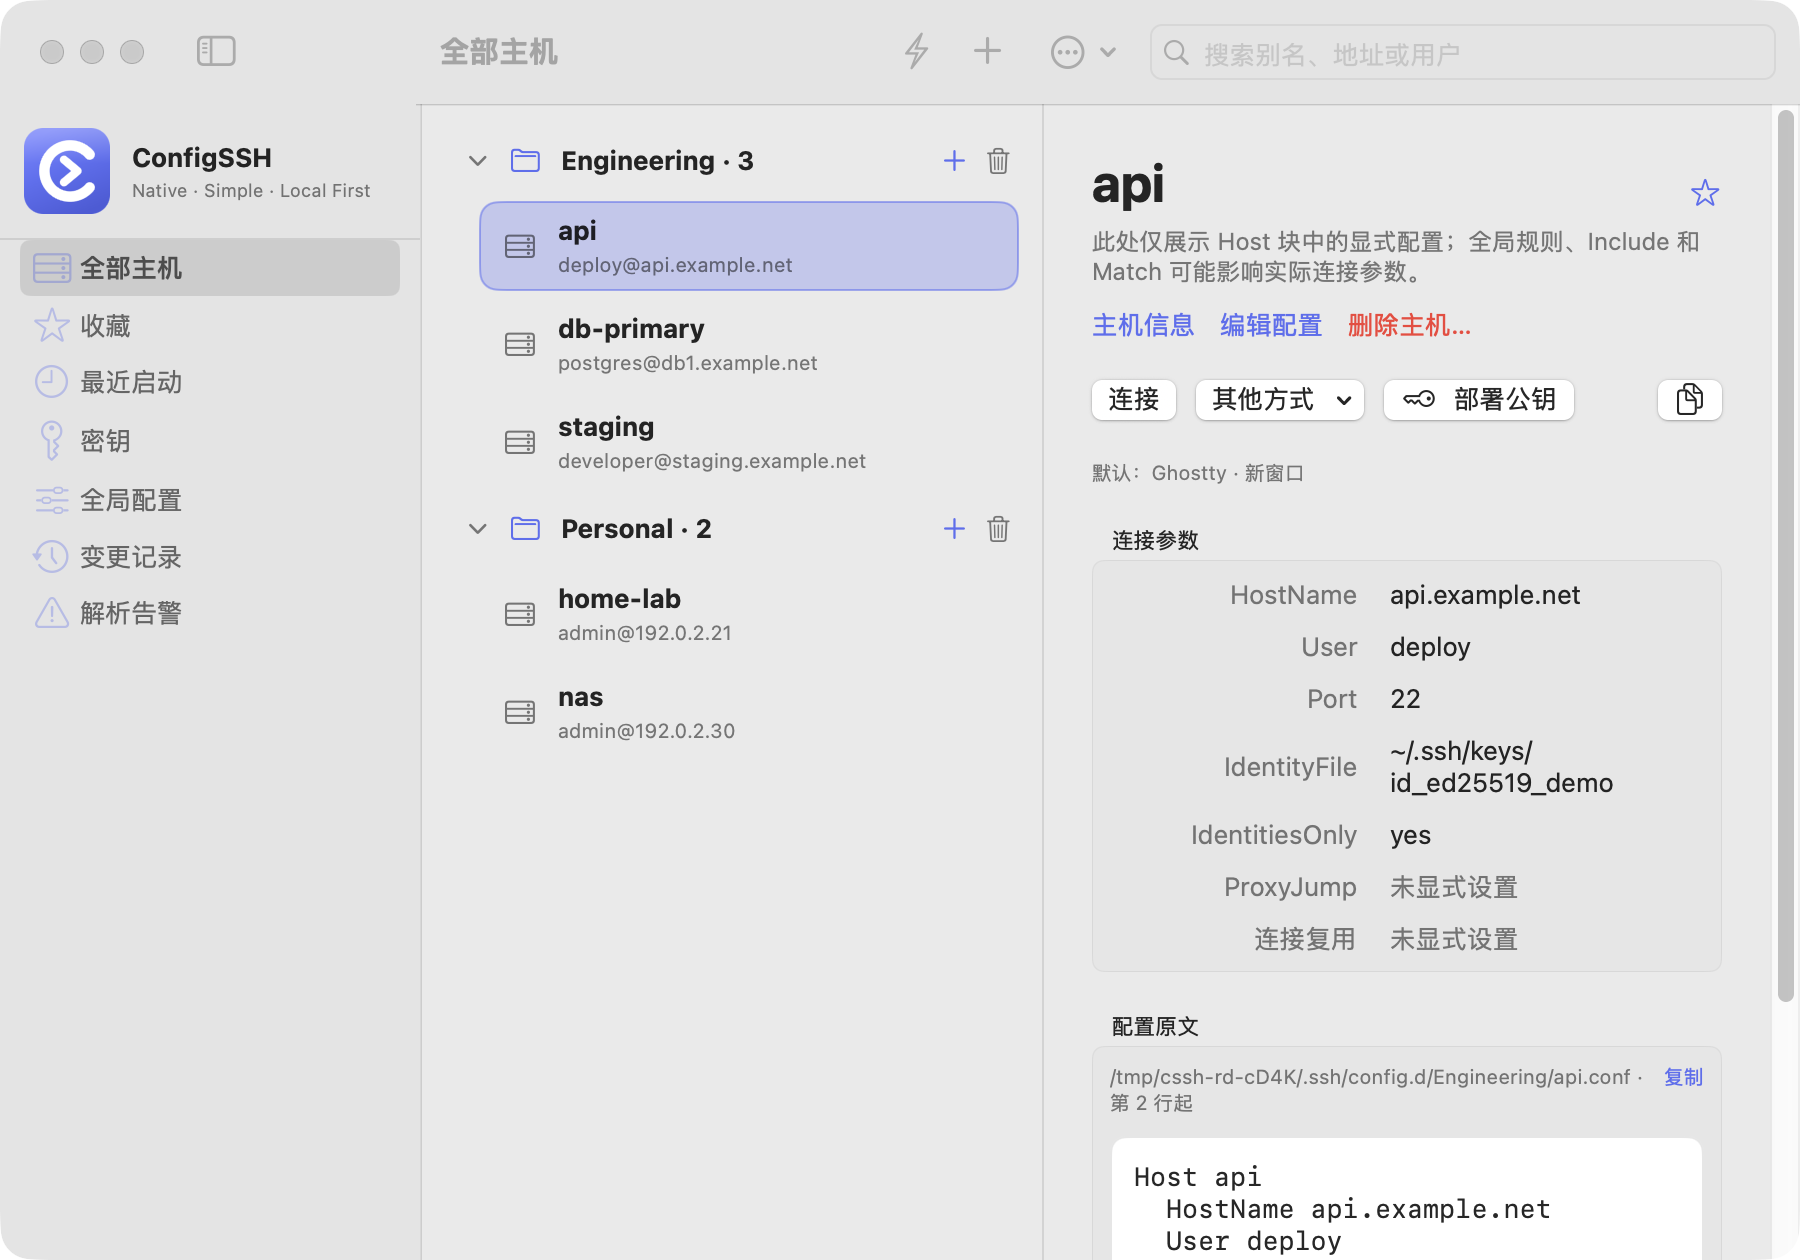
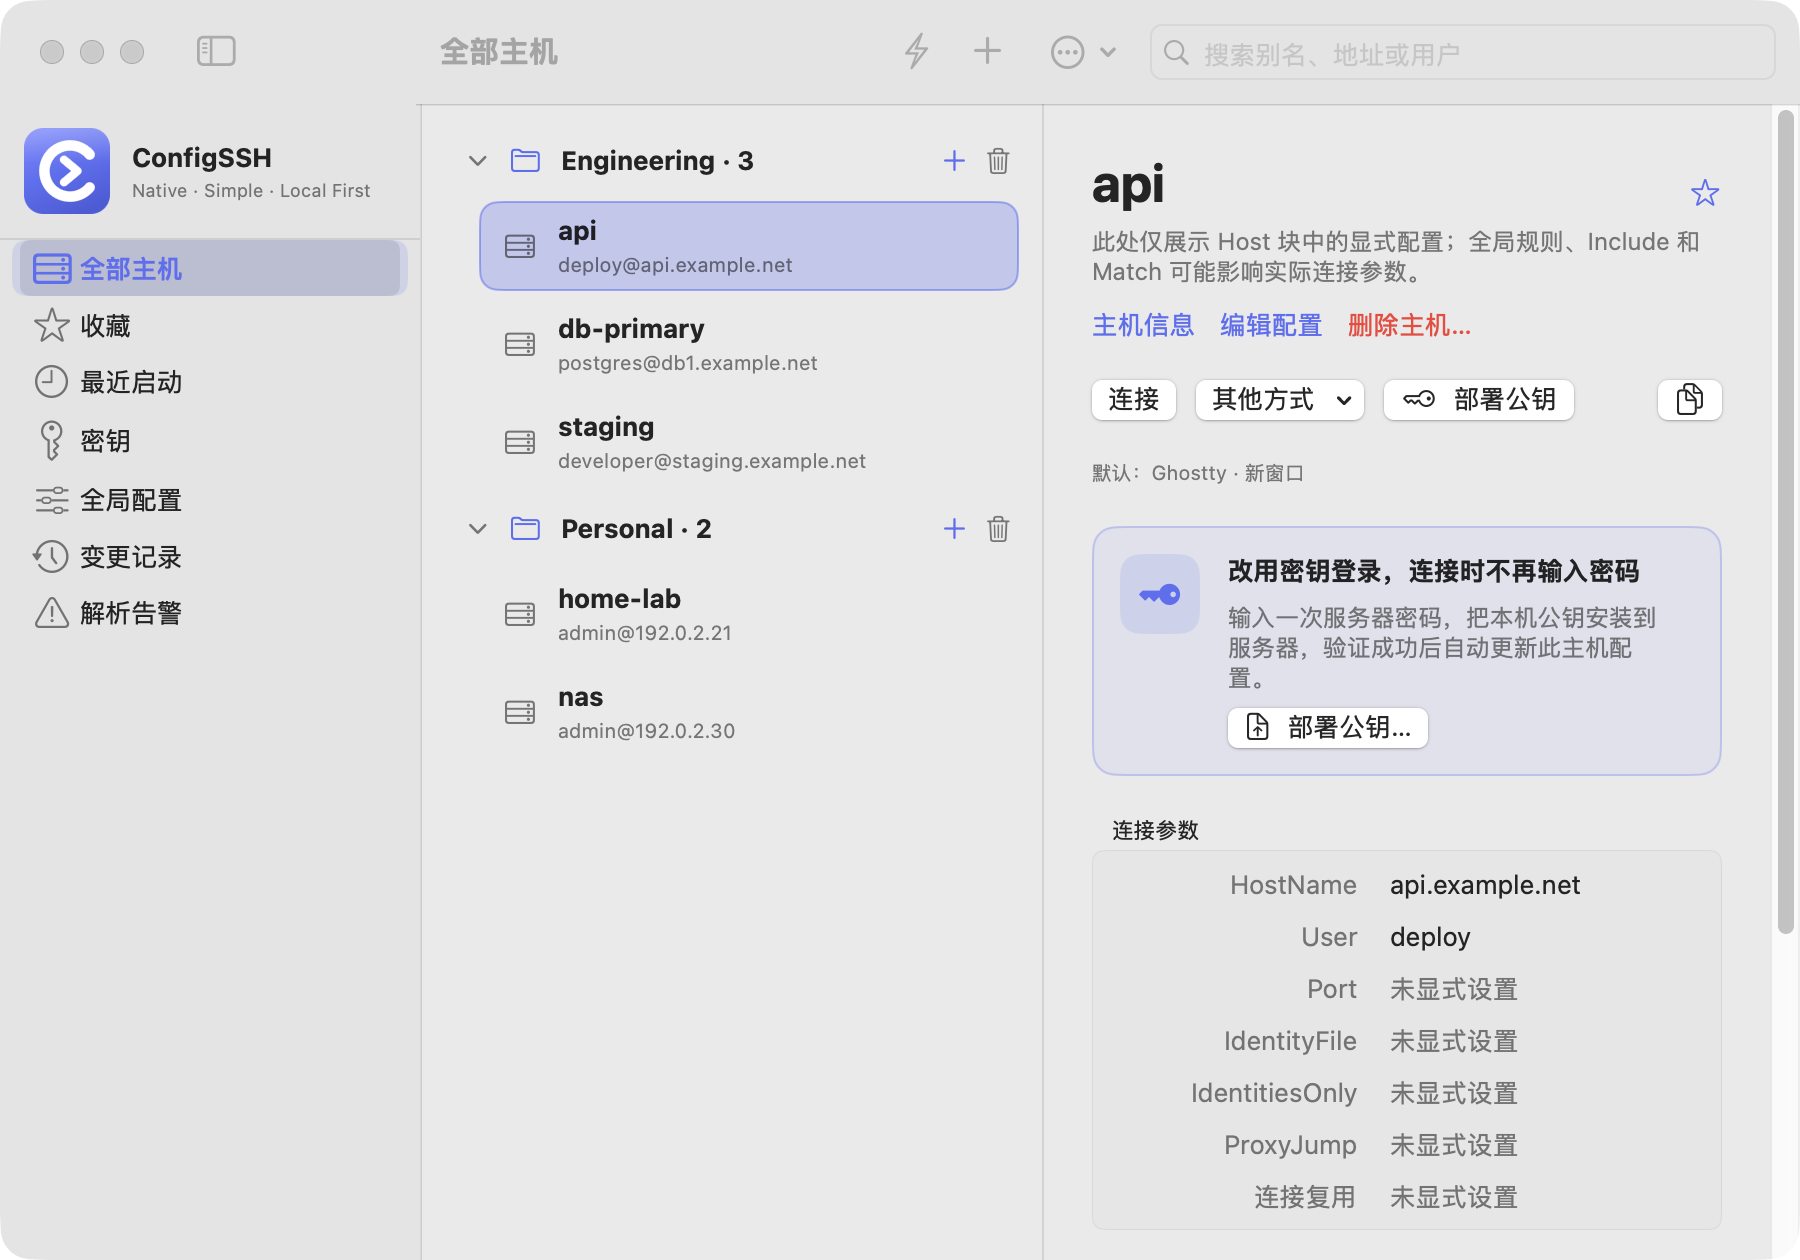
Fix sidebar accent, show the terminal in the search footer, keep Space whole
The sidebar selection colour comes from the system accent, which an app
cannot override with tint, so each row draws its own indigo highlight.

The quick-connect footer now always says which terminal and open mode
Return will use and whether it is the default or a per-host setting.

Shortcut keycaps are drawn per key (GlobalShortcut.keyParts) so Space
is one cap instead of five letters.

diff --git a/Sources/ConfigSSH/QuickLaunchView.swift b/Sources/ConfigSSH/QuickLaunchView.swift
@@ -221,12 +221,8 @@ struct QuickLaunchView: View {
     }
 
     private func footer(for host: HostRecord) -> some View {
-        HStack(spacing: 14) {
-            keyHint("↑↓", "选择")
-            keyHint("↵", "连接")
-            keyHint("⌘↵", "新标签页")
-            keyHint("esc", "关闭")
-            Spacer(minLength: 8)
+        VStack(spacing: 0) {
+            // Which terminal ↵ will open comes first and gets its own row, so it is never squeezed.
             Menu {
                 ForEach(capabilities) { capability in
                     Button("\(capability.profile.displayName) · 新窗口") {
@@ -247,19 +243,47 @@ struct QuickLaunchView: View {
                     }
                 }
             } label: {
-                HStack(spacing: 4) {
-                    Text("终端").foregroundStyle(.secondary)
-                    Text(preferredTerminal(for: host)?.displayName ?? "选择").foregroundStyle(BrandPalette.accent).fontWeight(.semibold)
-                }
-                .font(.system(size: 11.5))
+                terminalSummary(for: host)
             }
             .menuStyle(.borderlessButton)
             .fixedSize()
+            .help("点击可改用其他终端或新标签页打开")
+            .frame(maxWidth: .infinity, alignment: .leading)
+            .padding(.horizontal, 18)
+            .padding(.top, 8)
+            HStack(spacing: 14) {
+                keyHint("↑↓", "选择")
+                keyHint("↵", "连接")
+                keyHint("⌘↵", "新标签页")
+                keyHint("esc", "关闭")
+                Spacer(minLength: 0)
+            }
+            .padding(.horizontal, 18)
+            .padding(.top, 5)
+            .padding(.bottom, 9)
         }
-        .padding(.horizontal, 18)
-        .padding(.vertical, 9)
         .background(.primary.opacity(0.04))
         .overlay(alignment: .top) { Divider().opacity(0.5) }
+    }
+
+    /// "↵ 将用 Ghostty · 新窗口（默认终端）": the terminal and open mode that ↵ will use for this
+    /// host, marked when the host has its own setting instead of the default from 设置 › 终端.
+    /// One Text, because a borderless Menu label keeps only its first view.
+    private func terminalSummary(for host: HostRecord) -> some View {
+        let terminal = preferredTerminal(for: host)
+        let mode = preferredOpenMode(for: host)
+        let overridden = metadata[host.metadataKey]?.preferredTerminal != nil ||
+            metadata[host.metadataKey]?.preferredOpenMode != nil
+        var line = AttributedString("↵ 将用 ")
+        line.foregroundColor = .secondary
+        var name = AttributedString(terminal.map { "\($0.displayName) · \(mode.displayName)" } ?? "未配置终端")
+        name.foregroundColor = terminal == nil ? .orange : BrandPalette.accent
+        name.inlinePresentationIntent = .stronglyEmphasized
+        var note = AttributedString(overridden ? "  此主机单独设置" : "  默认终端")
+        note.foregroundColor = .secondary
+        return Text(line + name + note)
+            .font(.system(size: 11.5))
+            .lineLimit(1)
     }
 
     private func keyHint(_ key: String, _ label: String) -> some View {

diff --git a/Sources/ConfigSSH/ContentView.swift b/Sources/ConfigSSH/ContentView.swift
@@ -197,23 +197,35 @@ struct ContentView: View {
             VStack(spacing: 0) {
                 BrandHeaderView()
                 Divider()
+                // The sidebar's own selection highlight follows the system accent colour, which an app
+                // cannot override, so the rows draw their own indigo highlight and the List's is hidden.
                 List(SidebarSection.allCases, selection: $section) { item in
+                    let isSelected = section == item
                     Label {
                         HStack {
                             Text(item.rawValue)
                             Spacer()
                             if item == .issues && !scan.issues.isEmpty {
                                 Text(scan.issues.count, format: .number)
-                                    .foregroundStyle(.secondary)
+                                    .foregroundStyle(isSelected ? BrandPalette.accent : .secondary)
                             }
                         }
                     } icon: {
                         Image(systemName: item.symbol)
+                            .foregroundStyle(isSelected ? BrandPalette.accent : Color.secondary)
                     }
+                    .foregroundStyle(isSelected ? BrandPalette.accent : Color.primary)
+                    .fontWeight(isSelected ? .semibold : .regular)
                     .tag(item)
+                    .listRowBackground(
+                        RoundedRectangle(cornerRadius: 7, style: .continuous)
+                            .fill(isSelected ? BrandPalette.accent.opacity(0.16) : Color.clear)
+                            .padding(.horizontal, 6)
+                    )
                     .accessibilityIdentifier("sidebar-\(item.id)")
                 }
                 .listStyle(.sidebar)
+                .scrollContentBackground(.hidden)
             }
             .navigationTitle("ConfigSSH")
             .navigationSplitViewColumnWidth(min: 180, ideal: 210)

diff --git a/Sources/ConfigSSH/ShortcutRecorder.swift b/Sources/ConfigSSH/ShortcutRecorder.swift
@@ -2,22 +2,26 @@ import AppKit
 import ConfigSSHCore
 import SwiftUI
 
-/// Keycap-style display of a shortcut, e.g. ⌥ ⌘ K.
+/// Keycap-style display of a shortcut, e.g. ⌥ ⌘ K or ⌃ ⌥ Space: one cap per key, so a named key
+/// such as Space is a single wide cap.
 struct ShortcutKeycaps: View {
-    let text: String
+    let parts: [String]
 
     var body: some View {
         HStack(spacing: 4) {
-            ForEach(Array(text.enumerated()), id: \.offset) { _, character in
-                Text(String(character))
+            ForEach(Array(parts.enumerated()), id: \.offset) { _, part in
+                Text(part)
                     .font(.system(size: 13, weight: .medium, design: .rounded))
+                    .lineLimit(1)
+                    .fixedSize()
                     .frame(minWidth: 24, minHeight: 24)
+                    .padding(.horizontal, part.count > 1 ? 7 : 0)
                     .background(.quaternary.opacity(0.6), in: RoundedRectangle(cornerRadius: 6))
                     .overlay(RoundedRectangle(cornerRadius: 6).strokeBorder(.quaternary))
             }
         }
         .accessibilityElement(children: .ignore)
-        .accessibilityLabel(text)
+        .accessibilityLabel(parts.joined(separator: " "))
     }
 }
 

diff --git a/Sources/ConfigSSHCore/GlobalShortcut.swift b/Sources/ConfigSSHCore/GlobalShortcut.swift
@@ -63,13 +63,18 @@ package struct GlobalShortcut: Equatable, Sendable {
 
     // MARK: Display
 
-    package var display: String {
-        var text = ""
-        if modifiers & Self.control != 0 { text += "⌃" }
-        if modifiers & Self.option != 0 { text += "⌥" }
-        if modifiers & Self.shift != 0 { text += "⇧" }
-        if modifiers & Self.command != 0 { text += "⌘" }
-        return text + (Self.keyNames[keyCode] ?? "?")
+    package var display: String { keyParts.joined() }
+
+    /// The shortcut as separate keys in macOS order, for drawing keycaps: each modifier is one
+    /// part and the main key is one part, so "Space" stays a single word instead of five letters.
+    package var keyParts: [String] {
+        var parts: [String] = []
+        if modifiers & Self.control != 0 { parts.append("⌃") }
+        if modifiers & Self.option != 0 { parts.append("⌥") }
+        if modifiers & Self.shift != 0 { parts.append("⇧") }
+        if modifiers & Self.command != 0 { parts.append("⌘") }
+        parts.append(Self.keyNames[keyCode] ?? "?")
+        return parts
     }
 
     // MARK: Validation

diff --git a/Tests/ConfigSSHCoreTests/GlobalShortcutTests.swift b/Tests/ConfigSSHCoreTests/GlobalShortcutTests.swift
@@ -11,6 +11,14 @@ final class GlobalShortcutTests: XCTestCase {
         XCTAssertEqual(S(keyCode: 111, modifiers: S.control | S.shift | S.option | S.command).display, "⌃⌥⇧⌘F12")
     }
 
+    func testKeyPartsKeepNamedKeysWhole() {
+        XCTAssertEqual(S.default.keyParts, ["⌥", "⌘", "K"])
+        XCTAssertEqual(S(keyCode: 49, modifiers: S.control | S.option).keyParts, ["⌃", "⌥", "Space"],
+                       "Space is one part, not five letters")
+        XCTAssertEqual(S(keyCode: 111, modifiers: S.command).keyParts, ["⌘", "F12"])
+        XCTAssertEqual(S(keyCode: 49, modifiers: S.option).display, "⌥Space")
+    }
+
     func testStorageRoundTripAndLegacyNames() {
         let custom = S(keyCode: 38, modifiers: S.command | S.shift)
         XCTAssertEqual(S.parse(custom.storageValue), custom)

diff --git a/Sources/ConfigSSH/SettingsView.swift b/Sources/ConfigSSH/SettingsView.swift
@@ -274,7 +274,7 @@ struct SettingsView: View {
                     LabeledContent("全局快捷键") {
                         HStack(spacing: 10) {
                             if let shortcut = currentShortcut {
-                                ShortcutKeycaps(text: shortcut.display)
+                                ShortcutKeycaps(parts: shortcut.keyParts)
                             } else {
                                 Text("已关闭").foregroundStyle(.secondary)
                             }

diff --git a/README.md b/README.md
@@ -145,7 +145,7 @@ ConfigSSH 启动后会读取 `~/.ssh/config` 及其能访问的 `Include` 文件
 
 <table>
 <tr>
-<td width="50%"><img src="Assets/screenshots/quick-connect-shortcut.png" alt="全局快捷键呼出的搜索框：输入 eng 后只列出 Engineering 分组的 api、db-primary、staging 三台主机，第一项高亮，右侧显示分组标签和默认终端 Ghostty，底部提示 ↑↓ 选择、↵ 连接、Esc 关闭"></td>
+<td width="50%"><img src="Assets/screenshots/quick-connect-shortcut.png" alt="全局快捷键呼出的搜索框：输入 eng 后只列出 Engineering 分组的主机，第一项高亮，匹配的关键词用主题色标出，底部写明“↵ 将用 Ghostty · 新窗口 默认终端”，并提示 ↑↓ 选择、↵ 连接、⌘↵ 新标签页、Esc 关闭"></td>
 <td width="50%"><img src="Assets/screenshots/quick-connect-menubar.png" alt="菜单栏图标下拉面板：未输入关键词时按最近连接列出 5 台示例主机，显示地址、分组标签和默认终端，右下角可选择其他终端"></td>
 </tr>
 <tr>
@@ -160,7 +160,7 @@ ConfigSSH 启动后会读取 `~/.ssh/config` 及其能访问的 `Include` 文件
 
 1. 输入别名、地址、用户名、显示名称、分组或标签的任意部分，多个关键词用空格分隔；
 2. 用 `↑` / `↓` 选择主机，未输入时按最近连接排序；
-3. 按 `↩`（或点击）用这台主机的默认终端连接，也可以点“选择终端”换一个终端或改用新标签页。
+3. 按 `↩`（或点击）连接。搜索框底部会一直写明 `↵` 将用哪个终端和打开方式（例如“Ghostty · 新窗口”），并标出它是默认终端还是这台主机单独设置的；点它可以换一个终端或改用新标签页，`⌘↵` 直接用新标签页。
 
 全局快捷键默认是 `⌥⌘K`，可以自己定：打开“设置 › 通用 › 快速连接”，点“更改…”后直接按下想用的组合键即可录入（按 `Esc` 取消），也可以从“常用组合”里挑，或关闭、恢复默认。
 

diff --git a/MILESTONES.md b/MILESTONES.md
@@ -288,3 +288,10 @@
 - **菜单栏图标：** 单独做了一版（`ConfigSSH-menu.svg`），线条更粗、图形更大（环的描边 30、提示符 24，整体放大 1.18 倍），18 pt 下约 13 pt 的可见图形仍然清楚。
 - **资源与脚本：** 重写 `Assets/brand/` 下的 SVG 源文件，`ConfigSSH-mono-2b65ab.svg` 改名为 `ConfigSSH-mono-5b6cf0.svg`；`scripts/make-icon.py` 改用菜单栏专用源，并同时在 `~/.claude/skills` 与 `~/.codex/skills` 中查找渲染器。
 - **README 截图：** 主机详情、全局配置、密钥、全局搜索框、菜单栏下拉共 5 张全部用新图标和新配色重拍（`/tmp` 脱敏夹具，真实 Debug 应用）。
+
+## 2026 年 11 月 18 日试用反馈修正
+
+- **侧栏选中色仍是蓝色：** 原因是侧栏的选中高亮取自系统“强调色”，`.tint()` 只影响按钮和链接，应用无法覆盖。改为侧栏每行自己绘制靛蓝的圆角选中背景（隐藏列表自带的高亮），选中项的文字和图标用靛蓝，未选中的图标保持灰色；浅色和深色外观都已核对。
+- **搜索框看不到打开终端：** 底栏改为独占一行，始终写明“↵ 将用 Ghostty · 新窗口”，并标注“默认终端”或“此主机单独设置”；点击仍可换终端或改用新标签页。试做过分开的多个小控件，`Menu` 的无边框样式只会保留标签里的第一个视图，终端名字被截掉，因此改为一段文字。
+- **快捷键设置里 Space 被拆成字母：** 按键帽原先把整串快捷键逐字符拆开。核心层新增 `keyParts`（每个修饰键一个、主键整体一个），设置页按此绘制，`⌃ ⌥ Space` 现在是三个按键帽，Space 是一个完整的宽键帽。新增测试覆盖。
+- 验证：`swift test` 189 项通过；用 `/tmp` 夹具在真实窗口中核对侧栏（浅色/深色）、搜索框底栏（浅色/深色）和设置页的 `⌃⌥Space` 显示；README 的搜索框、菜单栏下拉和主机详情截图已重拍。
